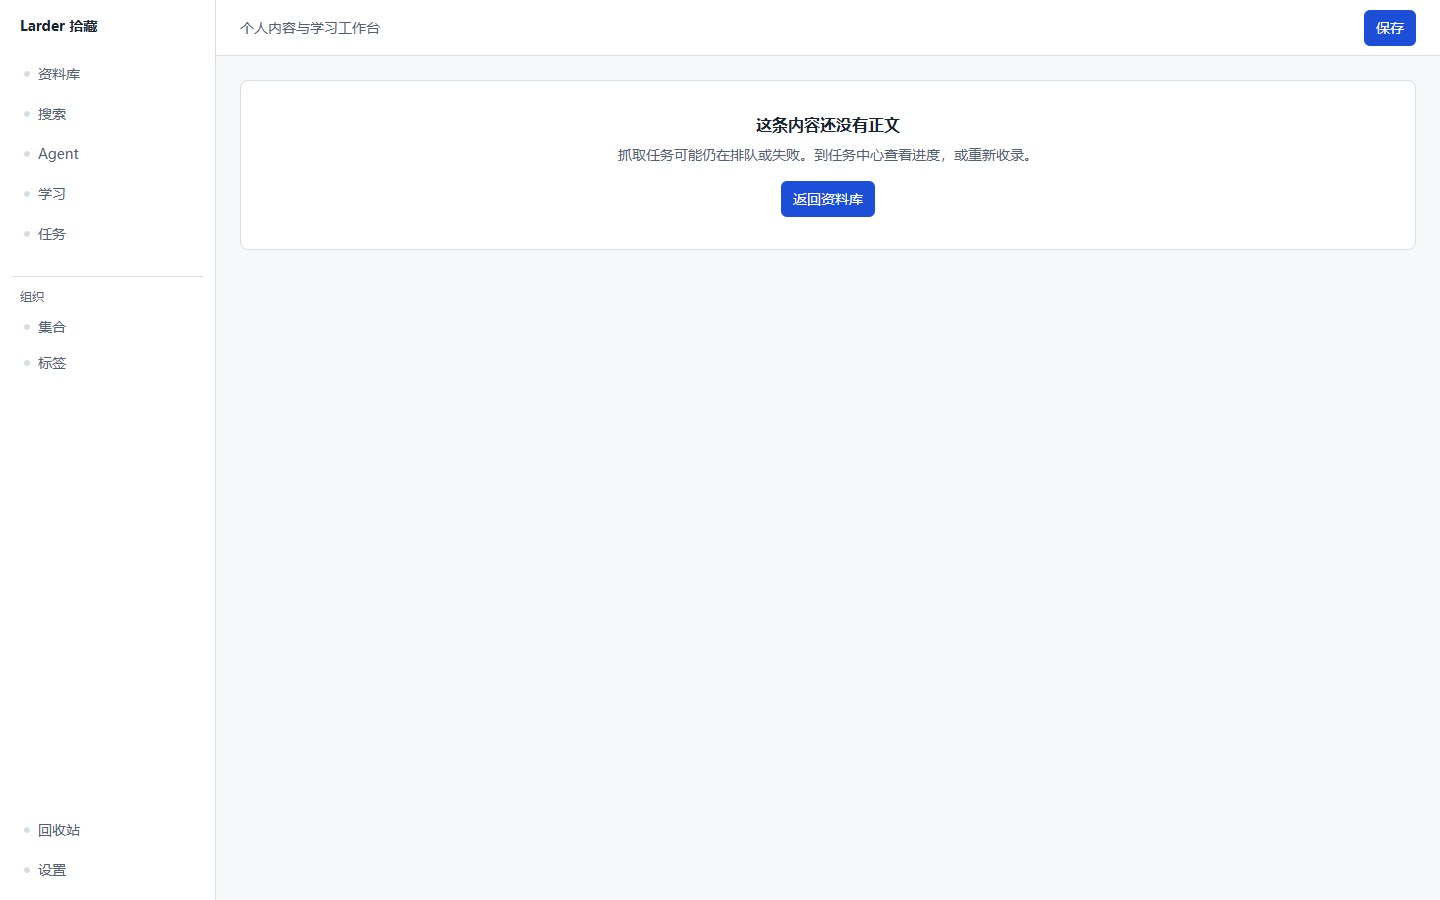
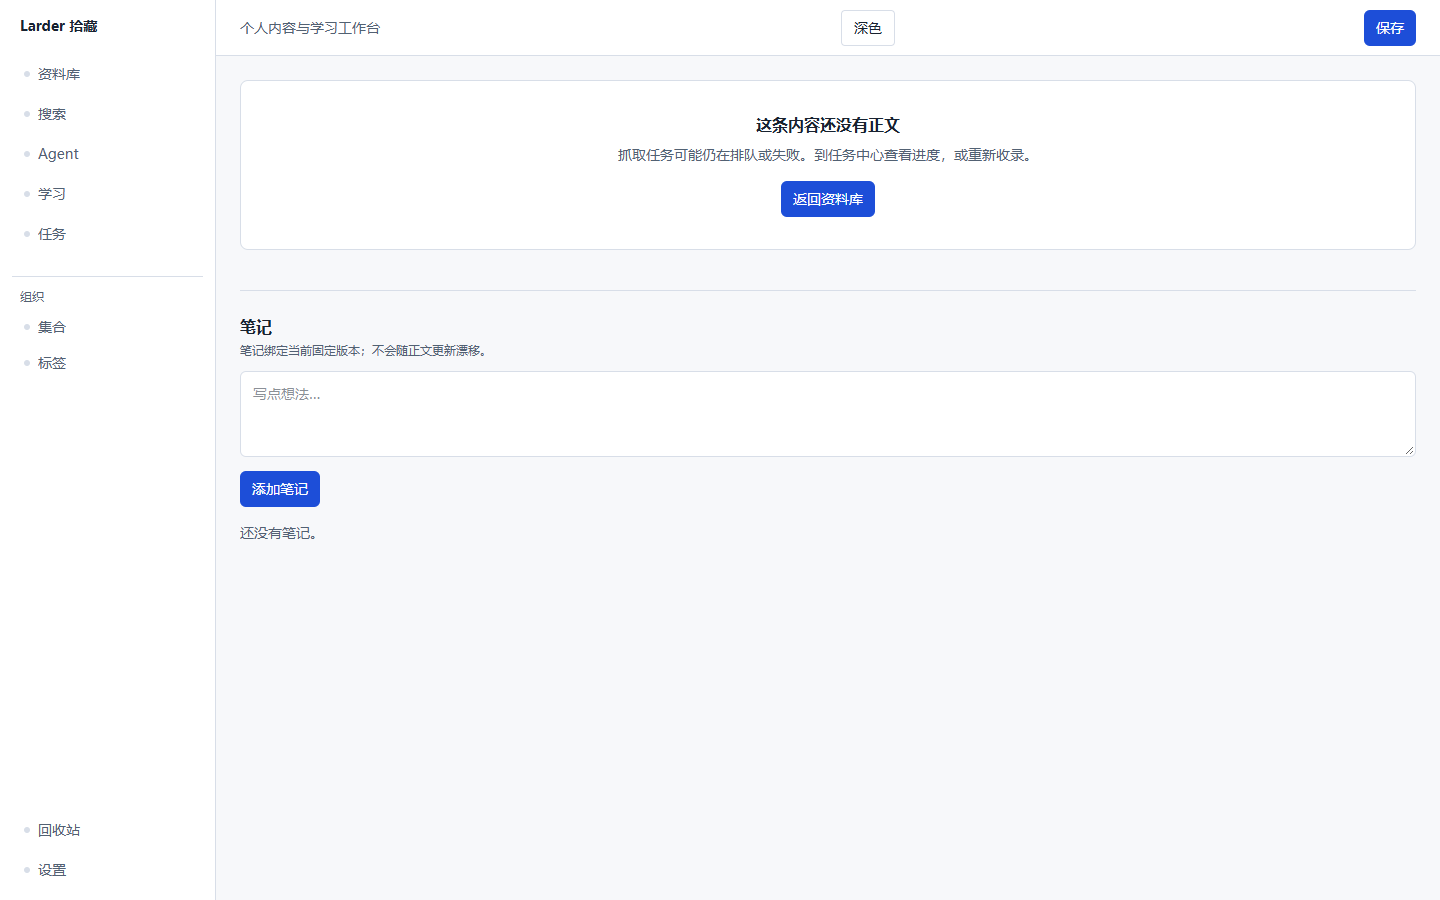
feat(web): reader notes panel + theme toggle; E2E covers note creation

Changed region(s): [[0.1562, 0.3422, 0.3438, 0.4667], [0.1562, 0.4978, 0.25, 0.6222], [0.5938, 0.0, 0.625, 0.0622]]

diff --git a/frontend/src/features/reader/NotesPanel.tsx b/frontend/src/features/reader/NotesPanel.tsx
@@ -1,0 +1,75 @@
+import { useEffect, useState } from "react";
+
+import { ApiError } from "../../shared/http/client";
+import { Button, ErrorState } from "../../shared/ui";
+import { createNote, listNotes, type NoteView } from "./api";
+
+/** 阅读页笔记区：列表 + 新建；错误可见，不吞失败。 */
+export default function NotesPanel({ itemId, revisionId }: { itemId: string; revisionId: string }) {
+  const [notes, setNotes] = useState<NoteView[]>([]);
+  const [markdown, setMarkdown] = useState("");
+  const [error, setError] = useState<string | null>(null);
+  const [busy, setBusy] = useState(false);
+
+  useEffect(() => {
+    listNotes(itemId).then(setNotes).catch((err: unknown) => {
+      setError(err instanceof ApiError ? `${err.code}：${err.message}` : String(err));
+    });
+  }, [itemId]);
+
+  async function add() {
+    if (!markdown.trim()) {
+      setError("笔记内容不能为空");
+      return;
+    }
+    setBusy(true);
+    setError(null);
+    try {
+      const created = await createNote(itemId, revisionId || null, markdown.trim());
+      setNotes((prev) => [created, ...prev]);
+      setMarkdown("");
+    } catch (err) {
+      setError(err instanceof ApiError ? `${err.code}：${err.message}` : String(err));
+    } finally {
+      setBusy(false);
+    }
+  }
+
+  return (
+    <section className="mt-10 border-t pt-6" style={{ borderColor: "var(--larder-border)" }} aria-label="笔记">
+      <h2 className="text-base font-semibold">笔记</h2>
+      <p className="mt-1 text-xs" style={{ color: "var(--larder-muted)" }}>
+        笔记绑定当前固定版本{revisionId ? `（revision ${revisionId.slice(0, 12)}…）` : ""}；不会随正文更新漂移。
+      </p>
+
+      <textarea
+        aria-label="笔记内容"
+        rows={3}
+        value={markdown}
+        onChange={(event) => setMarkdown(event.target.value)}
+        placeholder="写点想法…"
+        className="mt-3 w-full rounded-[var(--larder-radius-control)] border p-3 text-sm"
+        style={{ borderColor: "var(--larder-border)", background: "var(--larder-surface)", color: "var(--larder-text)" }}
+      />
+      <div className="mt-2">
+        <Button onClick={add} disabled={busy}>{busy ? "保存中…" : "添加笔记"}</Button>
+      </div>
+
+      {error ? <div className="mt-3"><ErrorState title="笔记操作失败" message={error} /></div> : null}
+
+      {notes.length === 0 ? (
+        <p className="mt-4 text-sm" style={{ color: "var(--larder-muted)" }}>还没有笔记。</p>
+      ) : (
+        <ul className="mt-4 space-y-3">
+          {notes.map((note) => (
+            <li key={note.id} className="rounded border p-3 text-sm"
+              style={{ borderColor: "var(--larder-border)", background: "var(--larder-surface)" }}>
+              <p className="whitespace-pre-wrap">{note.markdown}</p>
+              <p className="mt-1 text-xs" style={{ color: "var(--larder-muted)" }}>{note.createdAt}</p>
+            </li>
+          ))}
+        </ul>
+      )}
+    </section>
+  );
+}

diff --git a/frontend/e2e/journey/capture-read-job.spec.ts b/frontend/e2e/journey/capture-read-job.spec.ts
@@ -5,28 +5,24 @@ import { expect, test } from "@playwright/test";
 const password = process.env.E2E_ADMIN_PASSWORD ?? "";
 const shots = path.resolve(process.cwd(), "..", "reports", "frontend", "F01", "screenshots");
 
-test("保存 → 资料库 → 阅读（无正文）→ 任务取消", async ({ page }) => {
+test("保存 → 资料库 → 阅读（无正文）→ 笔记 → 任务取消", async ({ page }) => {
   test.skip(!password, "缺少 E2E_ADMIN_PASSWORD");
 
-  // 登录
   await page.goto("/#/login");
   await page.locator('input[type="password"]').fill(password);
   await page.getByRole("button", { name: "登录", exact: true }).click();
   await expect(page.getByRole("heading", { name: "资料库" })).toBeVisible({ timeout: 15_000 });
 
-  // 保存一个网页
   const url = `https://example.com/e2e/${Date.now()}`;
   await page.goto("/#/capture");
   await page.getByLabel("网址（http/https）").fill(url);
   await page.getByRole("button", { name: "保存", exact: true }).last().click();
   await expect(page.getByRole("heading", { name: "资料库" })).toBeVisible({ timeout: 15_000 });
 
-  // 列表里能按标题搜到
   await page.getByLabel("搜索标题").fill(url);
   await expect(page.getByText(url).first()).toBeVisible({ timeout: 15_000 });
   await page.screenshot({ path: path.join(shots, "library-1440.png"), fullPage: true });
 
-  // 390 视口与暗色（暗色通过 data-theme 切换，验证 tokens 生效）
   await page.setViewportSize({ width: 390, height: 844 });
   await page.screenshot({ path: path.join(shots, "library-390.png"), fullPage: true });
   await page.evaluate(() => {
@@ -38,12 +34,16 @@ test("保存 → 资料库 → 阅读（无正文）→ 任务取消", async ({ 
     document.documentElement.dataset.theme = "light";
   });
 
-  // 打开阅读页：新条目还没有正文，必须显示真实状态而不是伪造正文
   await page.getByText(url).first().click();
   await expect(page.getByRole("heading", { name: "这条内容还没有正文" })).toBeVisible({ timeout: 15_000 });
   await page.screenshot({ path: path.join(shots, "reader-empty-1440.png"), fullPage: true });
 
-  // 任务中心：取消进行中的任务
+  const noteText = "E2E 笔记 " + Date.now();
+  await page.getByLabel("笔记内容").fill(noteText);
+  await page.getByRole("button", { name: "添加笔记", exact: true }).click();
+  await expect(page.getByText(noteText).first()).toBeVisible({ timeout: 15_000 });
+  await page.screenshot({ path: path.join(shots, "reader-note-1440.png"), fullPage: true });
+
   await page.goto("/#/jobs");
   await expect(page.getByRole("heading", { name: "任务中心" })).toBeVisible({ timeout: 15_000 });
   const cancel = page.getByRole("button", { name: "取消" }).first();

diff --git a/frontend/src/features/reader/ReaderPage.tsx b/frontend/src/features/reader/ReaderPage.tsx
@@ -3,6 +3,7 @@ import { useEffect, useRef, useState } from "react";
 import { ApiError } from "../../shared/http/client";
 import { Button, EmptyState, ErrorState, Skeleton, StatusBadge } from "../../shared/ui";
 import { getItem, markRead, readRevision, savePosition, type ItemDetail, type RevisionText } from "./api";
+import NotesPanel from "./NotesPanel";
 
 /**
  * F03 阅读器：只读固定 revision（URL 里带 revisionId），不隐式跟随最新版本。
@@ -62,11 +63,14 @@ export default function ReaderPage({ itemId, revisionId, onBack }: {
   if (!item) return <EmptyState title="条目不存在" description="链接可能失效。" action={<Button onClick={onBack}>返回资料库</Button>} />;
   if (!revision) {
     return (
-      <EmptyState
-        title="这条内容还没有正文"
-        description="抓取任务可能仍在排队或失败。到任务中心查看进度，或重新收录。"
-        action={<Button onClick={onBack}>返回资料库</Button>}
-      />
+      <>
+        <EmptyState
+          title="这条内容还没有正文"
+          description="抓取任务可能仍在排队或失败。到任务中心查看进度，或重新收录。"
+          action={<Button onClick={onBack}>返回资料库</Button>}
+        />
+        <NotesPanel itemId={itemId} revisionId={revisionId} />
+      </>
     );
   }
 
@@ -96,6 +100,8 @@ export default function ReaderPage({ itemId, revisionId, onBack }: {
       >
         {revision.text}
       </div>
+
+      <NotesPanel itemId={itemId} revisionId={revisionId} />
     </article>
   );
 }

diff --git a/frontend/src/shared/layout/AppShell.tsx b/frontend/src/shared/layout/AppShell.tsx
@@ -1,4 +1,4 @@
-import type { ReactNode } from "react";
+import { useState, type ReactNode } from "react";
 
 export type NavItem = { path: string; label: string; group?: "main" | "organize" | "bottom" };
 
@@ -31,6 +31,14 @@ export function AppShell({
   offline: boolean;
   children: ReactNode;
 }) {
+  const [theme, setTheme] = useState(() => localStorage.getItem("larder-theme") ?? "light");
+  const toggleTheme = () => {
+    const next = theme === "dark" ? "light" : "dark";
+    setTheme(next);
+    document.documentElement.dataset.theme = next;
+    localStorage.setItem("larder-theme", next);
+  };
+
   const renderItem = (item: NavItem) => {
     const active = currentPath === item.path || currentPath.startsWith(`${item.path}/`);
     return (
@@ -75,6 +83,10 @@ export function AppShell({
           style={{ height: "var(--larder-topbar)", borderColor: "var(--larder-border)", background: "var(--larder-surface)" }}
         >
           <div className="text-sm" style={{ color: "var(--larder-muted)" }}>个人内容与学习工作台</div>
+          <button type="button" onClick={toggleTheme} aria-label="切换主题" className="mr-2 h-9 rounded px-3 text-sm"
+            style={{ border: "1px solid var(--larder-border)", color: "var(--larder-text)" }}>
+            {theme === "dark" ? "浅色" : "深色"}
+          </button>
           <button
             type="button"
             onClick={onQuickSave}

diff --git a/frontend/src/features/reader/api.ts b/frontend/src/features/reader/api.ts
@@ -1,4 +1,4 @@
-/** F03 阅读器 API：固定 revision 正文 + 阅读位置。 */
+/** F03 阅读器 API：固定 revision 正文 + 阅读位置 + 笔记。 */
 import { apiFetch } from "../../shared/http/client";
 
 export type ItemDetail = {
@@ -15,6 +15,8 @@ export type RevisionText = {
   sha256: string;
   text: string;
 };
+
+export type NoteView = { id: string; markdown: string; revisionId: string | null; createdAt: string };
 
 export function getItem(itemId: string, signal?: AbortSignal): Promise<ItemDetail> {
   return apiFetch<ItemDetail>(`/api/items/${itemId}`, { signal });
@@ -35,5 +37,16 @@ export function markRead(itemId: string, readStatus: "UNREAD" | "READING" | "REA
   return apiFetch(`/api/items/${itemId}`, {
     method: "PATCH",
     body: JSON.stringify({ readStatus }),
+  });
+}
+
+export function listNotes(itemId: string): Promise<NoteView[]> {
+  return apiFetch<NoteView[]>(`/api/items/${itemId}/notes`);
+}
+
+export function createNote(itemId: string, revisionId: string | null, markdown: string): Promise<NoteView> {
+  return apiFetch<NoteView>(`/api/items/${itemId}/notes`, {
+    method: "POST",
+    body: JSON.stringify({ revisionId, markdown }),
   });
 }
